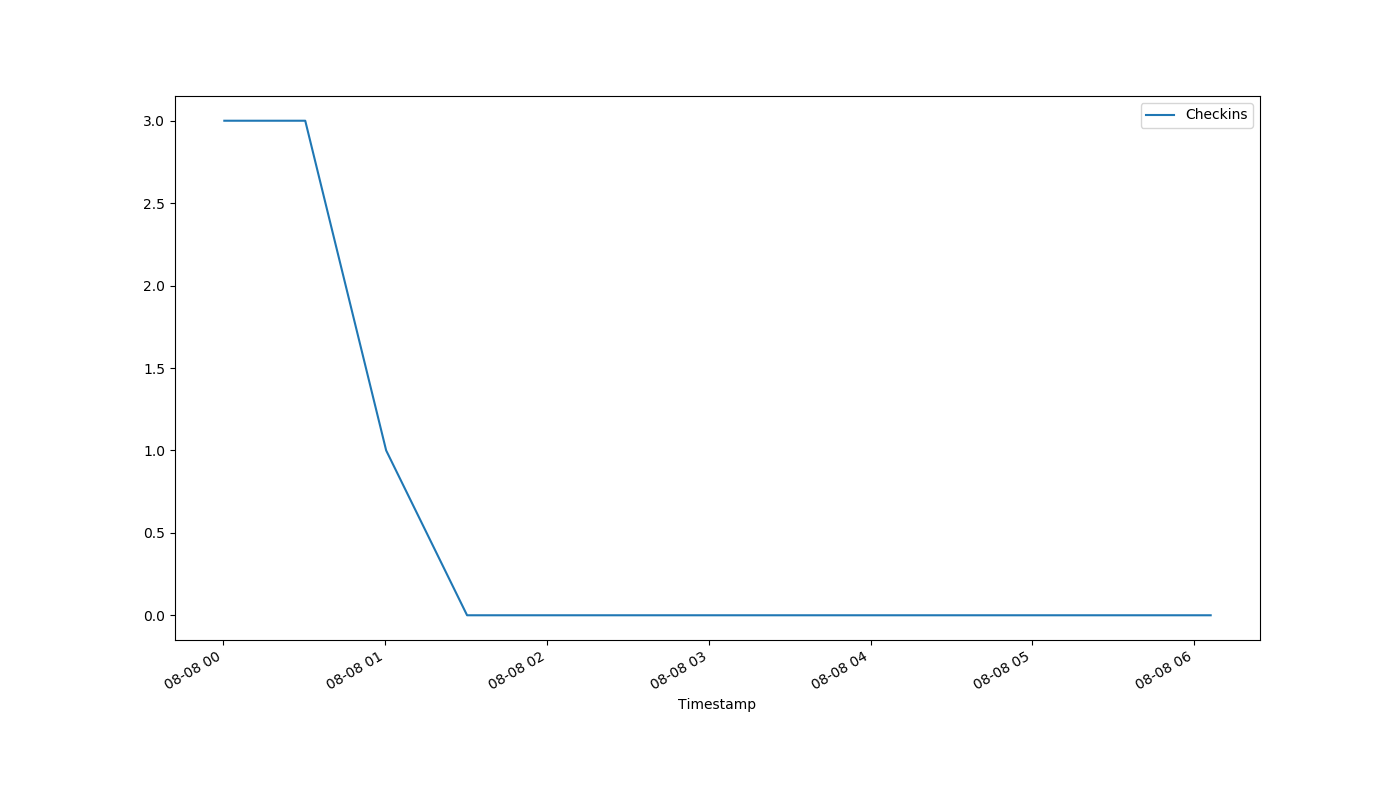
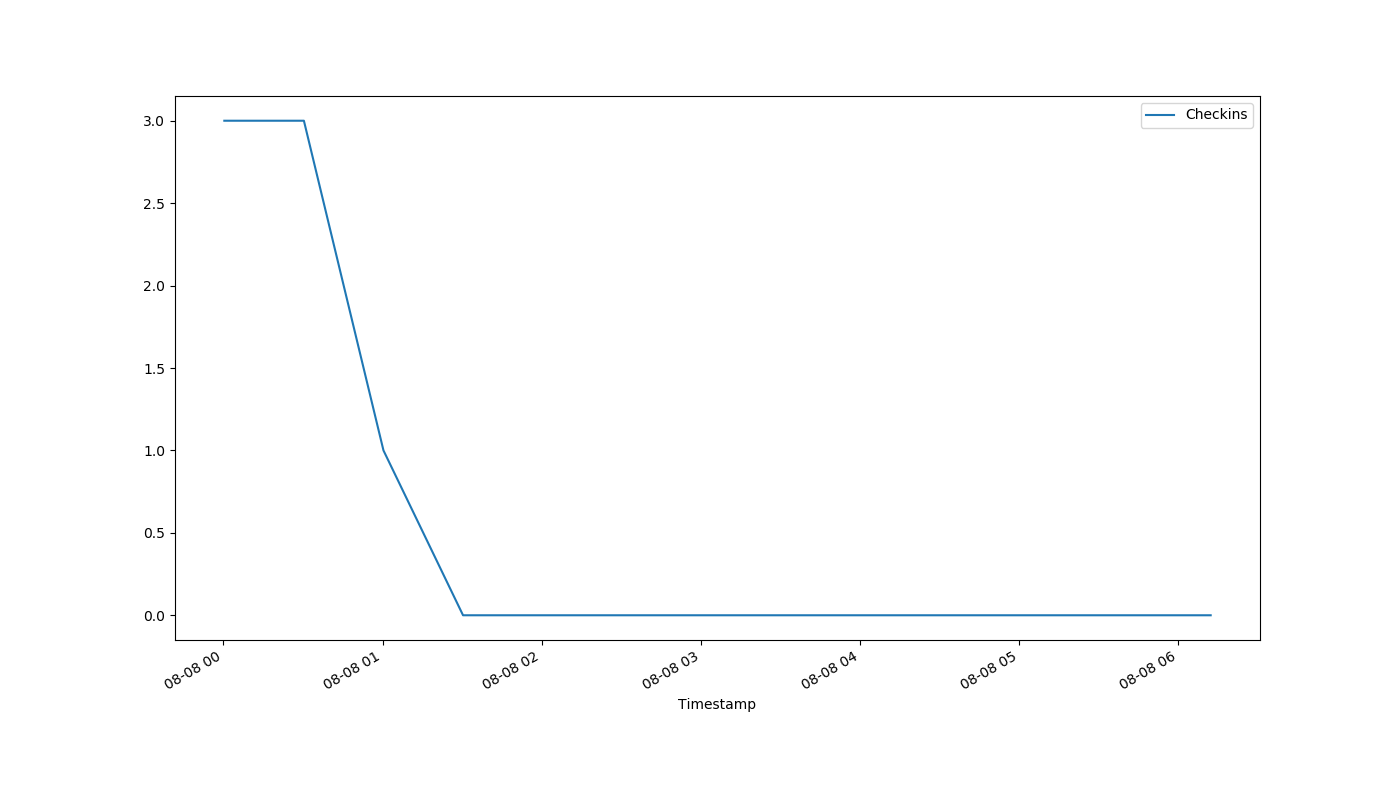
auto-Aug-08-06:12:26

diff --git a/index.html b/index.html
@@ -1,1 +1,1 @@
-<!DOCTYPE html><html><head><meta http-equiv="refresh" content="30"><link rel='stylesheet' href='holmcurrent.css'></head><body><p id='count'>0</p><div id='graph-wrap'><img id='graph' src='holmgraph-Aug-08.png'></div><p id='updated'>Last updated 06:06:17 / 06:06:04</p></body></html>
+<!DOCTYPE html><html><head><meta http-equiv="refresh" content="30"><link rel='stylesheet' href='holmcurrent.css'></head><body><p id='count'>0</p><div id='graph-wrap'><img id='graph' src='holmgraph-Aug-08.png'></div><p id='updated'>Last updated 06:12:17 / 06:12:15</p></body></html>
